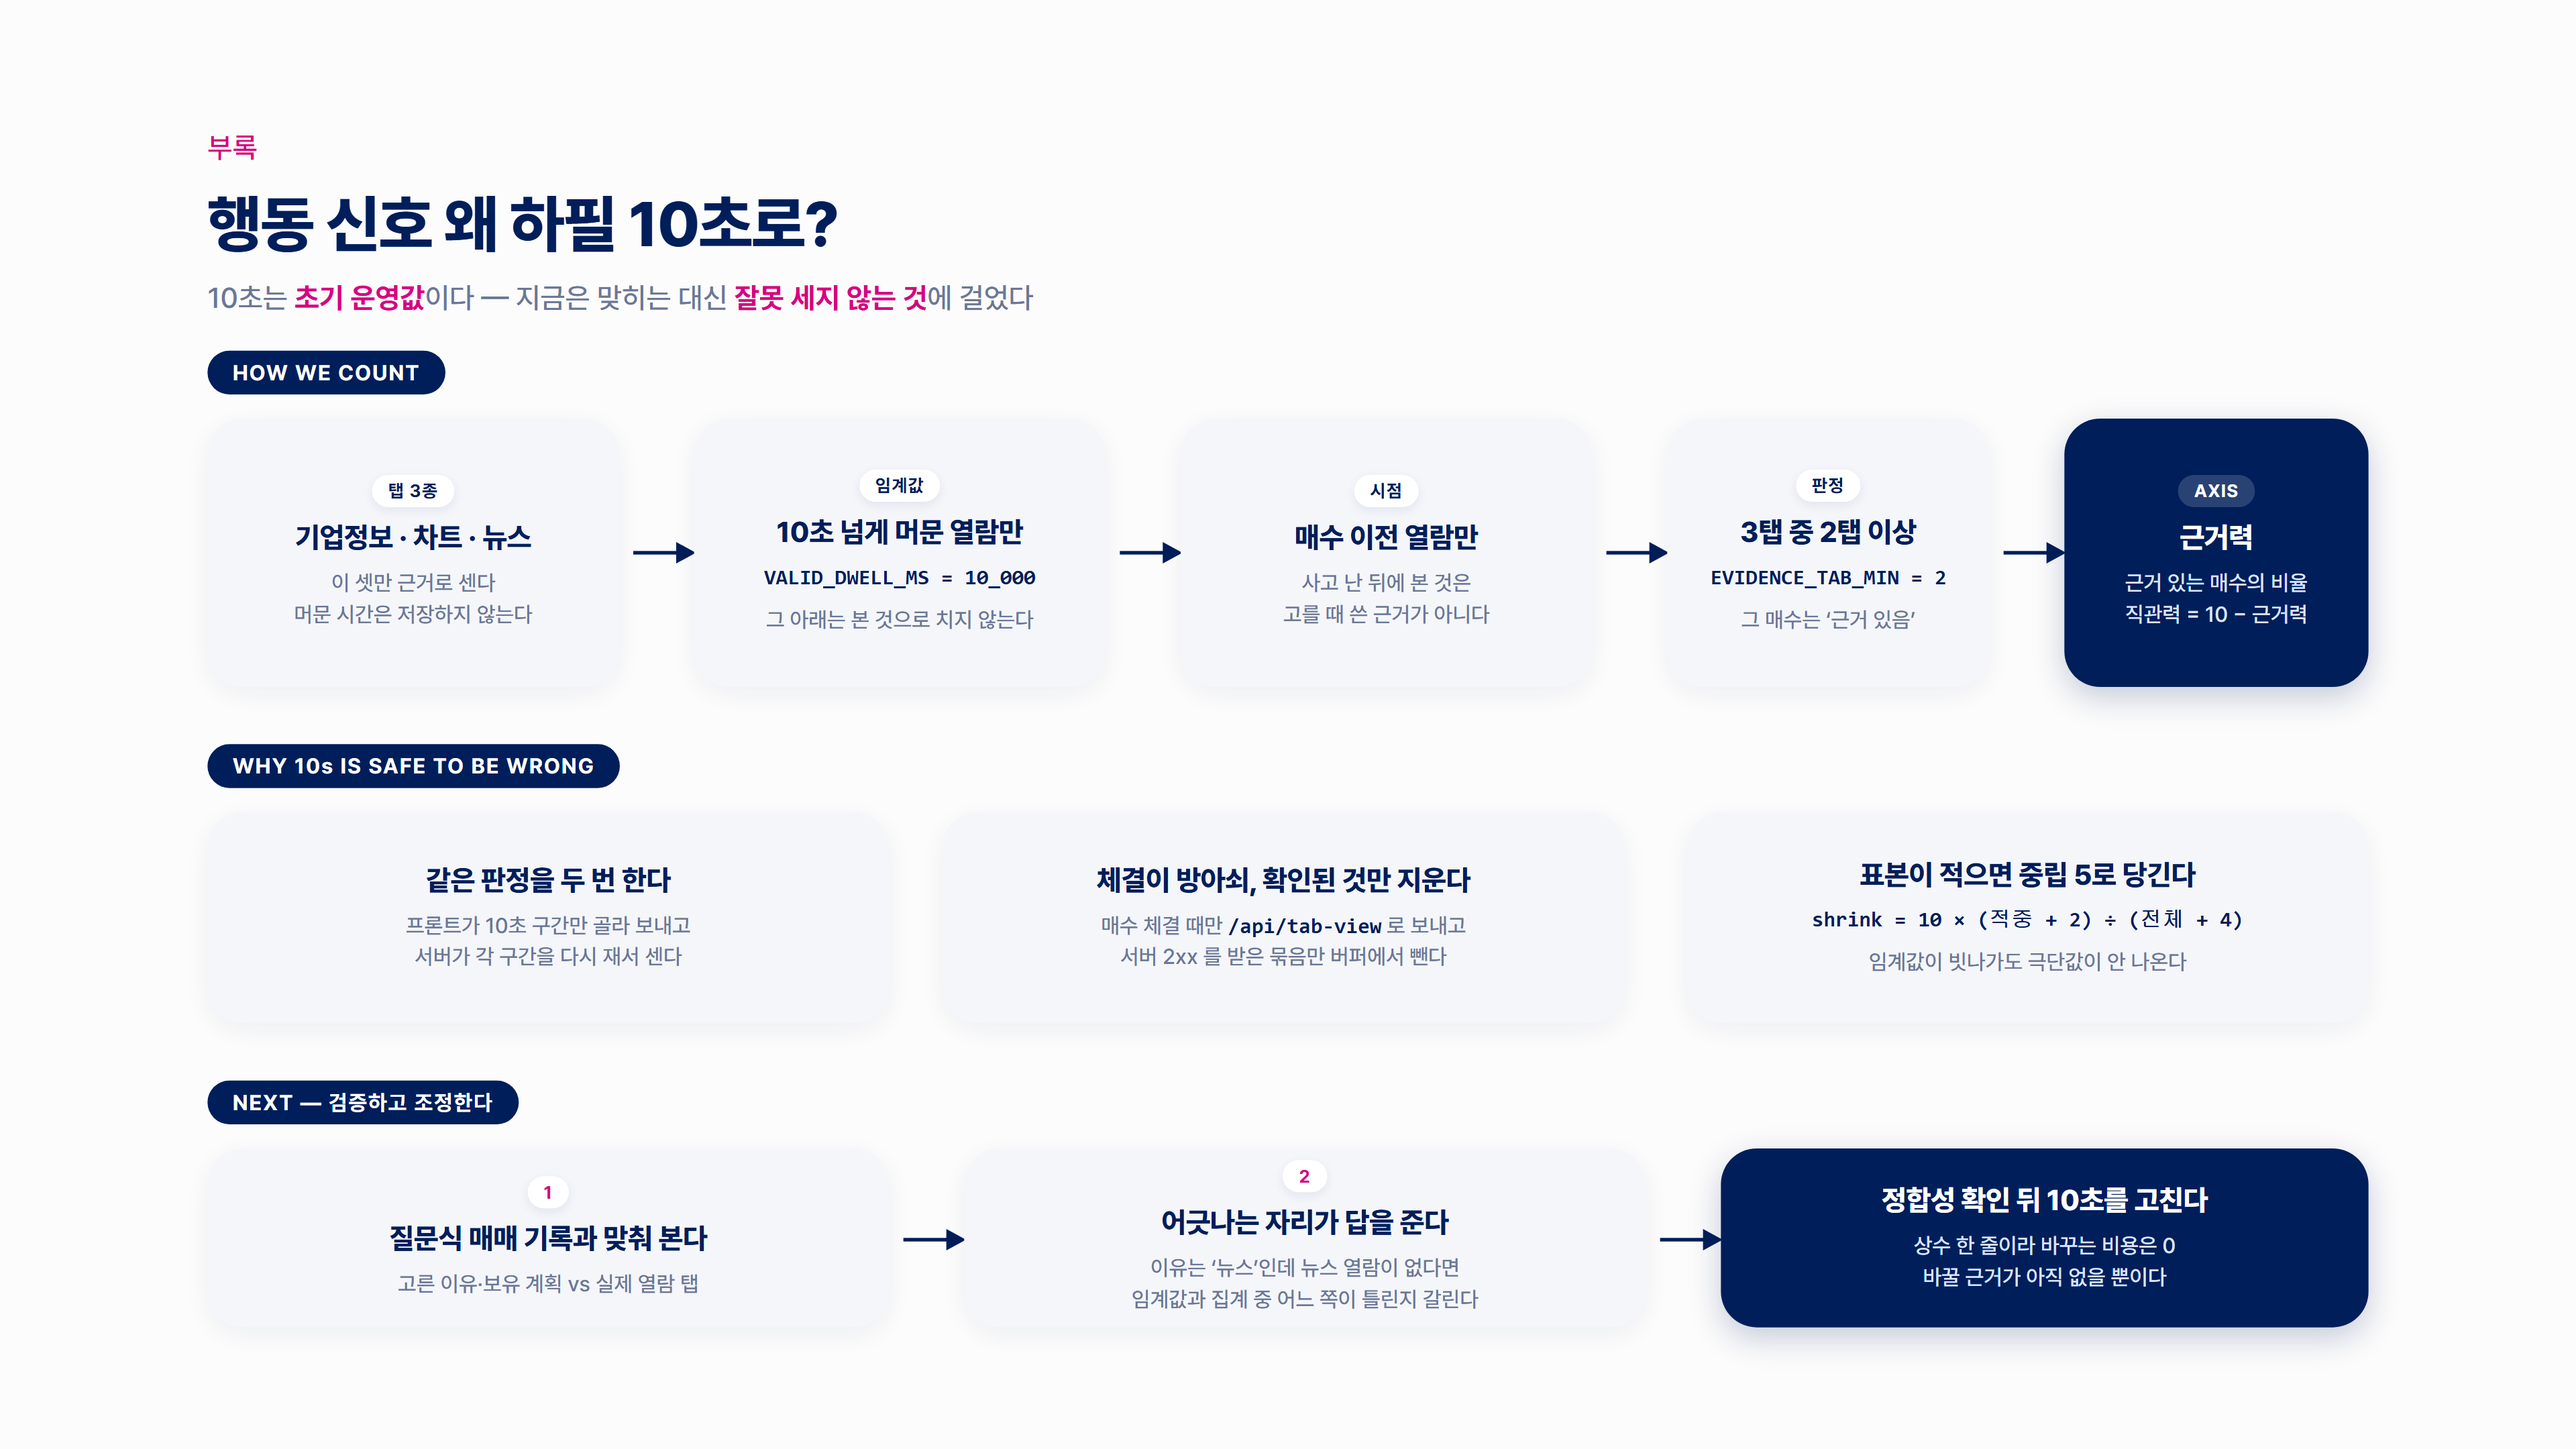
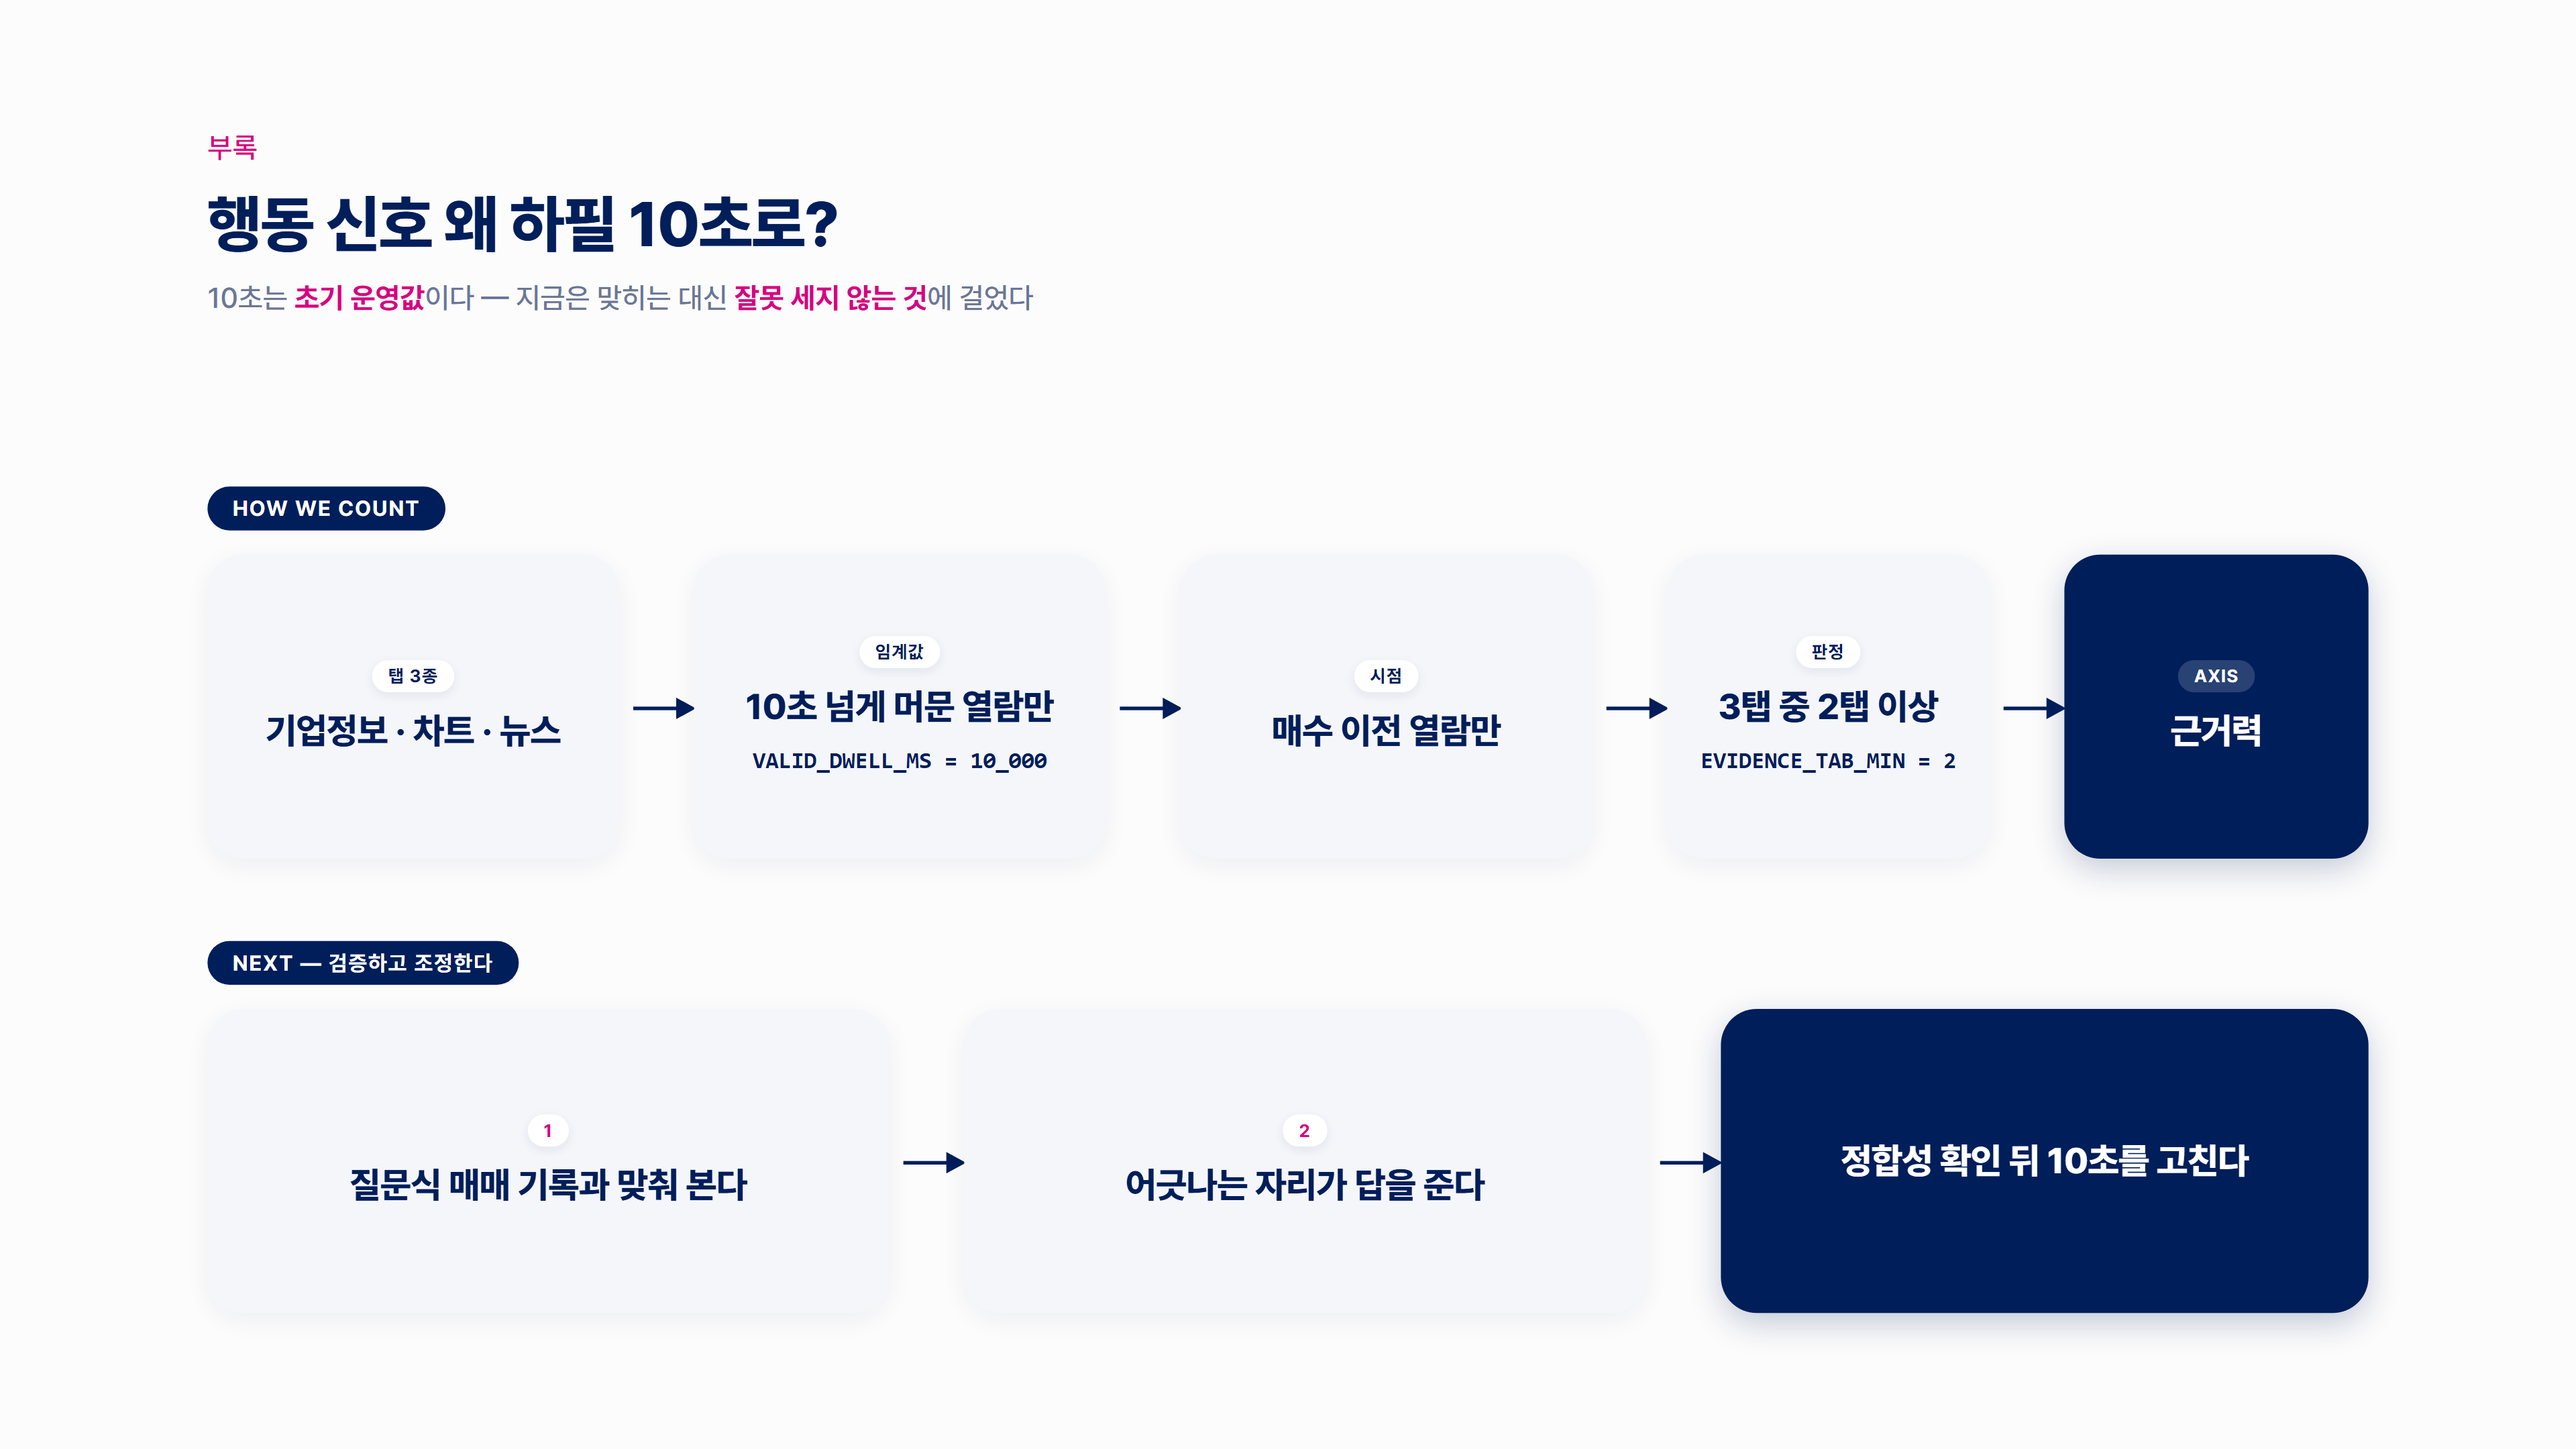
행동 신호 슬라이드에서 보조 설명과 안전장치 줄을 걷어낸다
카드 안 회색 보조 설명을 전부 뺐다 — 말로 하는 자리다. `.cs` 규칙도 쓰는 곳이
없어져 함께 지운다.

가운데 `WHY 10s IS SAFE TO BE WRONG` 줄(카드 3장과 칩)을 통째로 뺀다. 남은 두
줄은 세는 방법과 검증 계획이다.

두 줄이 빠져 생긴 여백만큼 카드를 키우고(높이 120 → 170, 제목 17 → 20) 헤더
아래 남는 세로 공간의 한가운데에 다시 놓는다. PNG 도 다시 렌더링했다.

diff --git a/docs/행동신호_10초_슬라이드.html b/docs/행동신호_10초_슬라이드.html
@@ -10,7 +10,11 @@
      카드 #F4F6FA / 강조 블록 #001E5A
 
      좌표는 템플릿 실측값 그대로 1440x810 로 잡고, 무대만 1920x1080 로 키운다
-     (4/3 배). 앞선 부록 슬라이드들과 눈금이 어긋나지 않는다. */
+     (4/3 배). 앞선 부록 슬라이드들과 눈금이 어긋나지 않는다.
+
+     이 장은 카드 안 보조 설명(회색 작은 글씨)을 쓰지 않는다 — 말로 하는 자리다.
+     그래서 카드 높이를 170 으로 잡고 두 줄을 헤더 아래 남는 세로 공간의
+     한가운데에 둔다 (위 여백 76 = 아래 여백 76). */
   :root{
     --bg:#fcfcfc; --navy:#001e5a; --magenta:#d70182;
     --card:#f4f6fa; --muted:#6b7797; --arrow:#a3acc2;
@@ -35,7 +39,7 @@
 
   /* 블록 */
   .card{position:absolute;background:var(--card);border-radius:20px;
-        display:flex;flex-direction:column;align-items:center;justify-content:center;gap:7px;
+        display:flex;flex-direction:column;align-items:center;justify-content:center;gap:9px;
         box-shadow:0 4px 14px rgba(0,30,90,.06);text-align:center;padding:0 10px}
   .card.solid{background:var(--navy);box-shadow:0 6px 18px rgba(0,30,90,.22)}
 
@@ -43,10 +47,8 @@
   .chip{position:absolute;font-size:12px;font-weight:700;letter-spacing:.06em;
         background:var(--navy);color:#fff;border-radius:999px;padding:5px 14px}
 
-  .ct{font-size:16px;font-weight:800;letter-spacing:-.01em;line-height:1.25}
+  .ct{font-size:20px;font-weight:800;letter-spacing:-.01em;line-height:1.25}
   .card.solid .ct{color:#fff}
-  .cs{font-size:12px;font-weight:500;color:var(--muted);line-height:1.45}
-  .card.solid .cs{color:#dbe4ff}
 
   /* 태그 — 세는 자리는 네이비, 아직 검증 전인 값은 마젠타 */
   .tag{font-size:10px;font-weight:700;letter-spacing:.05em;border-radius:999px;padding:3px 9px;
@@ -55,7 +57,7 @@
   .card.solid .tag{background:rgba(255,255,255,.16);color:#fff;box-shadow:none}
 
   /* 상수·산식은 숫자축이라 고정폭으로 둔다 */
-  .fx{font-family:"Consolas","D2Coding",monospace;font-size:12px;font-weight:600;
+  .fx{font-family:"Consolas","D2Coding",monospace;font-size:13px;font-weight:600;
       color:var(--navy);line-height:1.4}
   .card.solid .fx{color:#fff}
 
@@ -74,72 +76,48 @@
   <div class="tagline">10초는 <b>초기 운영값</b>이다 — 지금은 맞히는 대신 <b>잘못 세지 않는 것</b>에 걸었다</div>
 
   <!-- ── 무엇을 세는가 ── -->
-  <div class="chip" style="left:116px;top:196px">HOW WE COUNT</div>
-  <div class="card" style="left:116px;top:234px;width:230px;height:150px">
+  <div class="chip" style="left:116px;top:272px">HOW WE COUNT</div>
+  <div class="card" style="left:116px;top:310px;width:230px;height:170px">
     <span class="tag">탭 3종</span>
     <div class="ct">기업정보 · 차트 · 뉴스</div>
-    <div class="cs">이 셋만 근거로 센다<br>머문 시간은 저장하지 않는다</div>
   </div>
-  <div class="arw r" style="left:354px;top:308px;width:26px"></div>
-  <div class="card" style="left:388px;top:234px;width:230px;height:150px">
+  <div class="arw r" style="left:354px;top:395px;width:26px"></div>
+  <div class="card" style="left:388px;top:310px;width:230px;height:170px">
     <span class="tag">임계값</span>
     <div class="ct">10초 넘게 머문 열람만</div>
     <div class="fx">VALID_DWELL_MS = 10_000</div>
-    <div class="cs">그 아래는 본 것으로 치지 않는다</div>
   </div>
-  <div class="arw r" style="left:626px;top:308px;width:26px"></div>
-  <div class="card" style="left:660px;top:234px;width:230px;height:150px">
+  <div class="arw r" style="left:626px;top:395px;width:26px"></div>
+  <div class="card" style="left:660px;top:310px;width:230px;height:170px">
     <span class="tag">시점</span>
     <div class="ct">매수 이전 열람만</div>
-    <div class="cs">사고 난 뒤에 본 것은<br>고를 때 쓴 근거가 아니다</div>
   </div>
-  <div class="arw r" style="left:898px;top:308px;width:26px"></div>
-  <div class="card" style="left:932px;top:234px;width:180px;height:150px">
+  <div class="arw r" style="left:898px;top:395px;width:26px"></div>
+  <div class="card" style="left:932px;top:310px;width:180px;height:170px">
     <span class="tag">판정</span>
     <div class="ct">3탭 중 2탭 이상</div>
     <div class="fx">EVIDENCE_TAB_MIN = 2</div>
-    <div class="cs">그 매수는 ‘근거 있음’</div>
   </div>
-  <div class="arw r" style="left:1120px;top:308px;width:26px"></div>
-  <div class="card solid" style="left:1154px;top:234px;width:170px;height:150px">
+  <div class="arw r" style="left:1120px;top:395px;width:26px"></div>
+  <div class="card solid" style="left:1154px;top:310px;width:170px;height:170px">
     <span class="tag">AXIS</span>
     <div class="ct">근거력</div>
-    <div class="cs">근거 있는 매수의 비율<br>직관력 = 10 − 근거력</div>
-  </div>
-
-  <!-- ── 임계값이 틀려도 무너지지 않게 ── -->
-  <div class="chip" style="left:116px;top:416px">WHY 10s IS SAFE TO BE WRONG</div>
-  <div class="card" style="left:116px;top:454px;width:381px;height:118px">
-    <div class="ct">같은 판정을 두 번 한다</div>
-    <div class="cs">프론트가 10초 구간만 골라 보내고<br>서버가 각 구간을 다시 재서 센다</div>
-  </div>
-  <div class="card" style="left:527px;top:454px;width:381px;height:118px">
-    <div class="ct">체결이 방아쇠, 확인된 것만 지운다</div>
-    <div class="cs">매수 체결 때만 <span class="fx">/api/tab-view</span> 로 보내고<br>서버 2xx 를 받은 묶음만 버퍼에서 뺀다</div>
-  </div>
-  <div class="card" style="left:943px;top:454px;width:381px;height:118px">
-    <div class="ct">표본이 적으면 중립 5로 당긴다</div>
-    <div class="fx">shrink = 10 × (적중 + 2) ÷ (전체 + 4)</div>
-    <div class="cs">임계값이 빗나가도 극단값이 안 나온다</div>
   </div>
 
   <!-- ── 검증 계획 ── -->
-  <div class="chip" style="left:116px;top:604px">NEXT — 검증하고 조정한다</div>
-  <div class="card" style="left:116px;top:642px;width:381px;height:100px">
+  <div class="chip" style="left:116px;top:526px">NEXT — 검증하고 조정한다</div>
+  <div class="card" style="left:116px;top:564px;width:381px;height:170px">
     <span class="tag open">1</span>
     <div class="ct">질문식 매매 기록과 맞춰 본다</div>
-    <div class="cs">고른 이유·보유 계획 vs 실제 열람 탭</div>
   </div>
-  <div class="arw r" style="left:505px;top:692px;width:26px"></div>
-  <div class="card" style="left:539px;top:642px;width:381px;height:100px">
+  <div class="arw r" style="left:505px;top:649px;width:26px"></div>
+  <div class="card" style="left:539px;top:564px;width:381px;height:170px">
     <span class="tag open">2</span>
     <div class="ct">어긋나는 자리가 답을 준다</div>
-    <div class="cs">이유는 ‘뉴스’인데 뉴스 열람이 없다면<br>임계값과 집계 중 어느 쪽이 틀린지 갈린다</div>
   </div>
-  <div class="arw r" style="left:928px;top:692px;width:26px"></div>
-  <div class="card solid" style="left:962px;top:642px;width:362px;height:100px">
+  <div class="arw r" style="left:928px;top:649px;width:26px"></div>
+  <div class="card solid" style="left:962px;top:564px;width:362px;height:170px">
     <div class="ct">정합성 확인 뒤 10초를 고친다</div>
-    <div class="cs">상수 한 줄이라 바꾸는 비용은 0<br>바꿀 근거가 아직 없을 뿐이다</div>
   </div>
 </div>
 </div>
